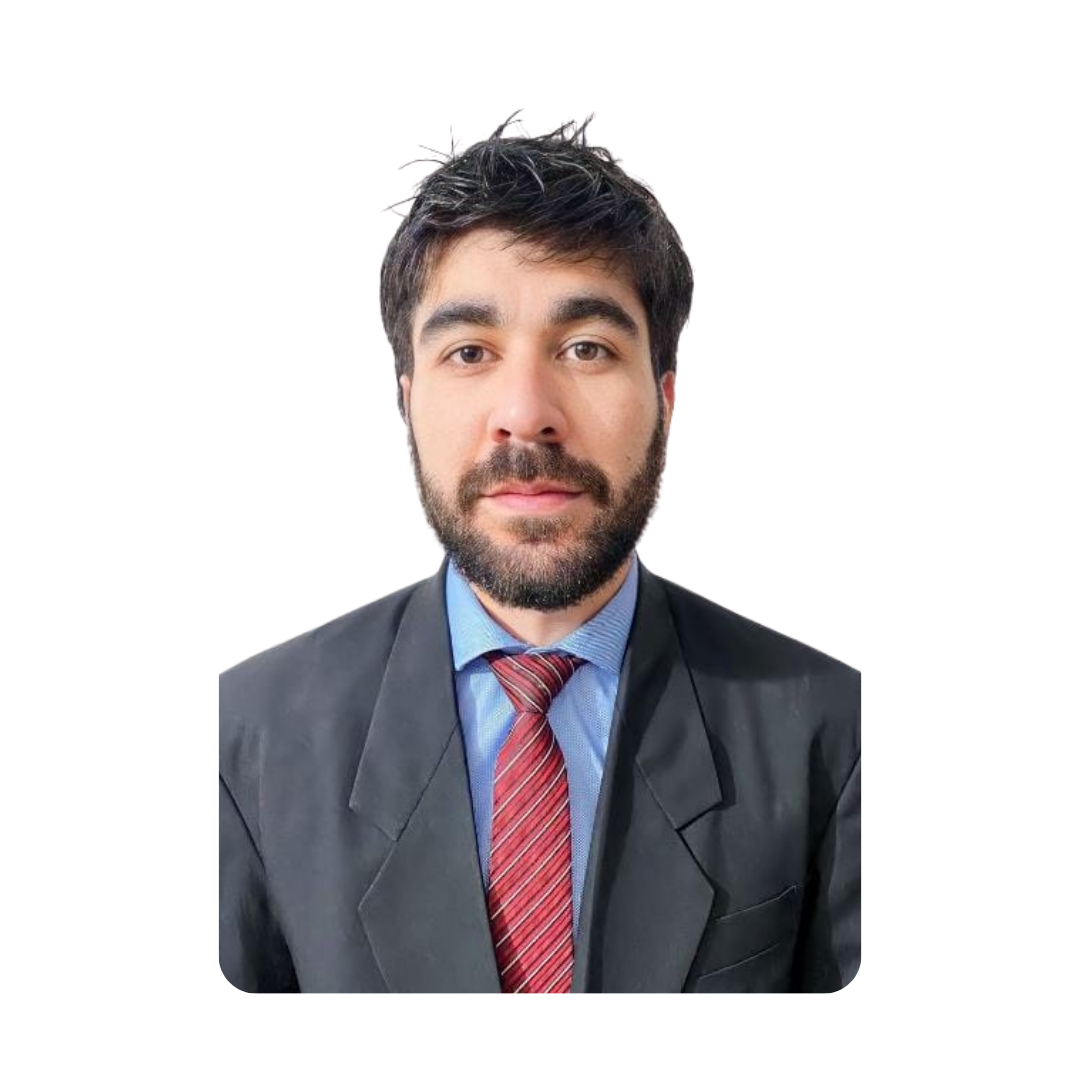
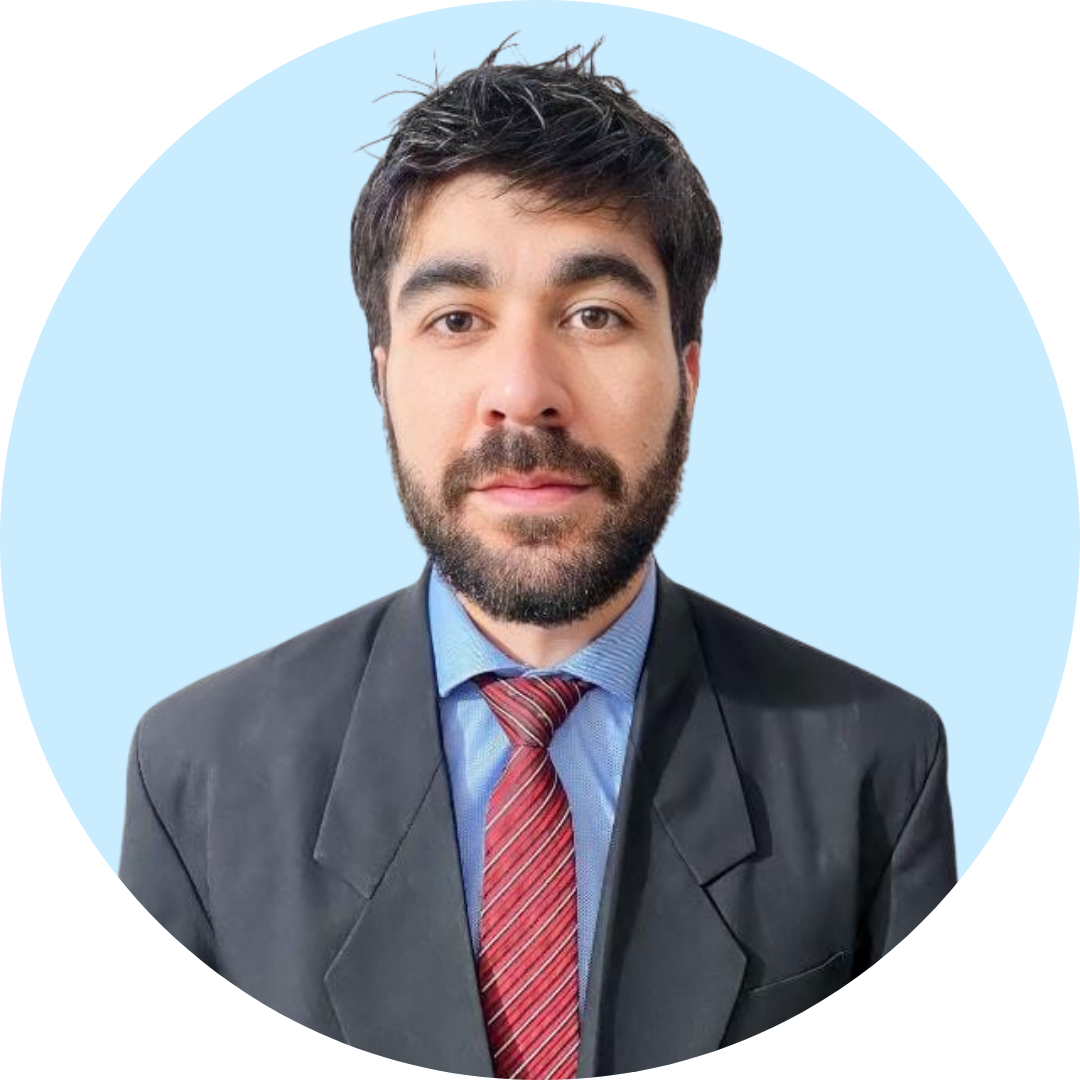
Fix: Update team photos to fill circle

diff --git a/src/components/Team.tsx b/src/components/Team.tsx
@@ -43,11 +43,11 @@ const Team = () => {
               style={{ animationDelay: `${index * 0.1}s` }}
             >
               <CardHeader className="pb-4">
-                <div className="w-32 h-32 mx-auto mb-4 rounded-full overflow-hidden border-4 border-primary/20 shadow-md">
+                <div className="w-40 h-40 mx-auto mb-4 rounded-full overflow-hidden shadow-lg">
                   <img 
                     src={member.image} 
                     alt={member.name}
-                    className="w-full h-full object-cover"
+                    className="w-full h-full object-cover object-center"
                   />
                 </div>
                 <h3 className="text-2xl font-bold text-foreground">{member.name}</h3>
